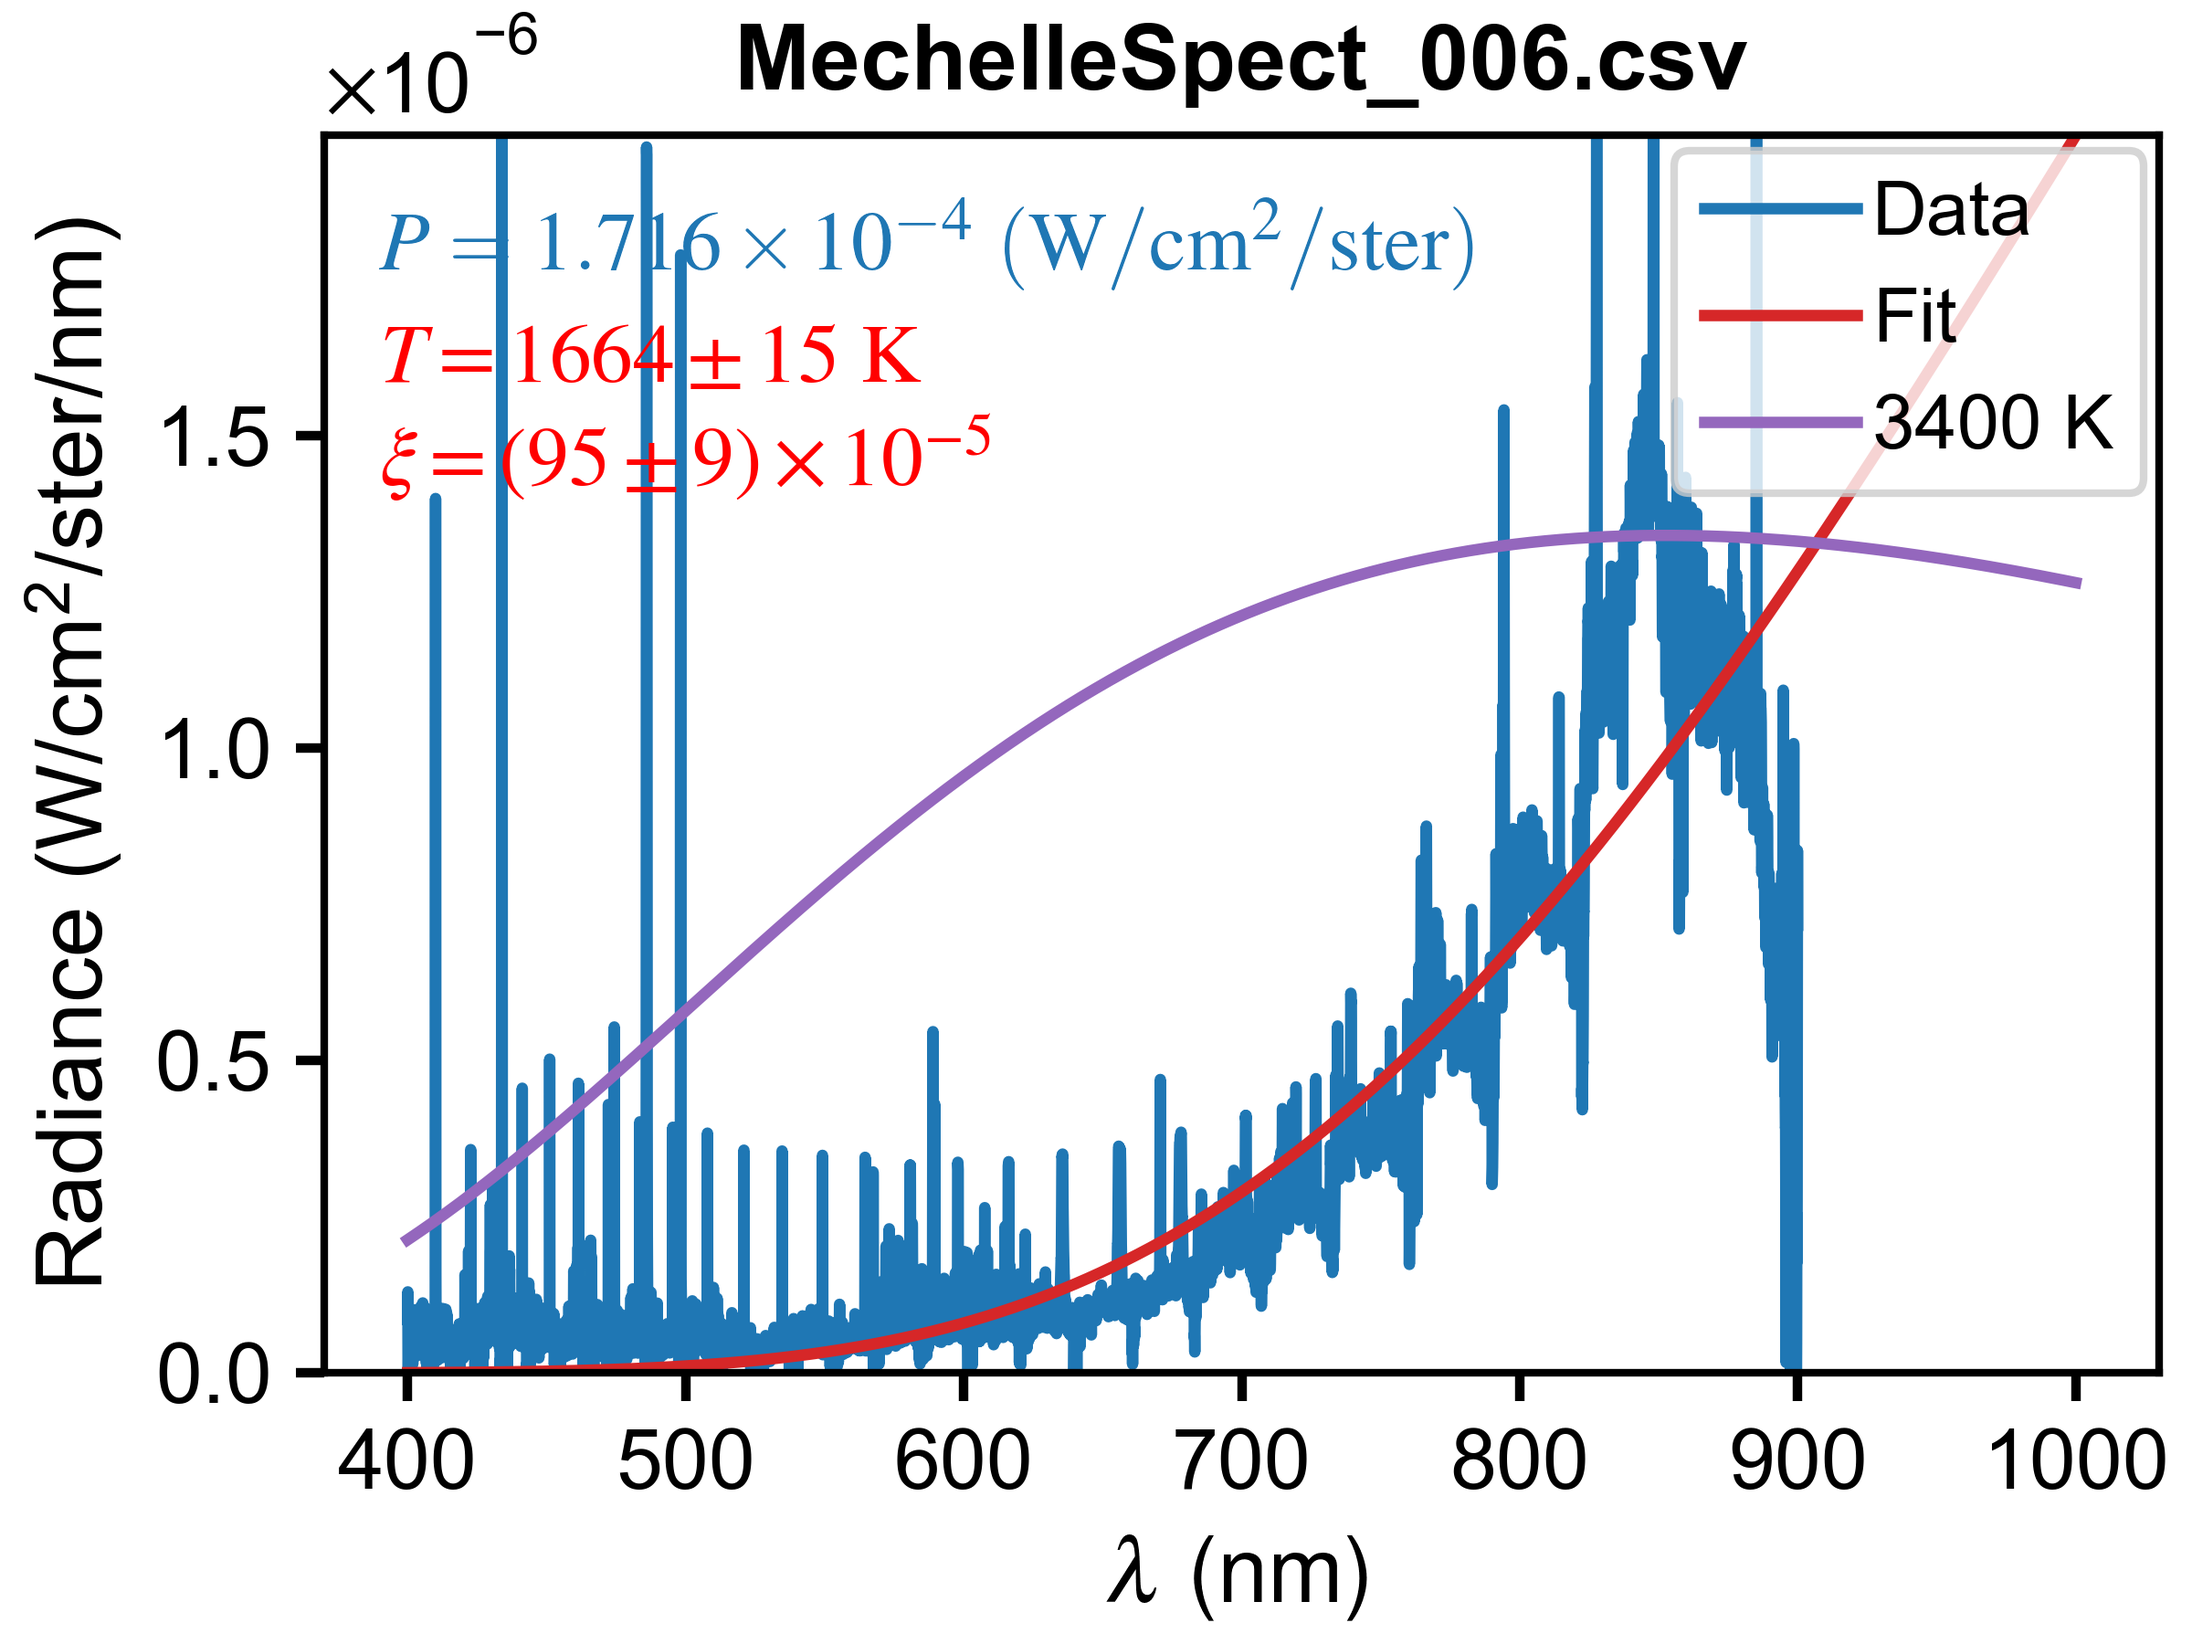
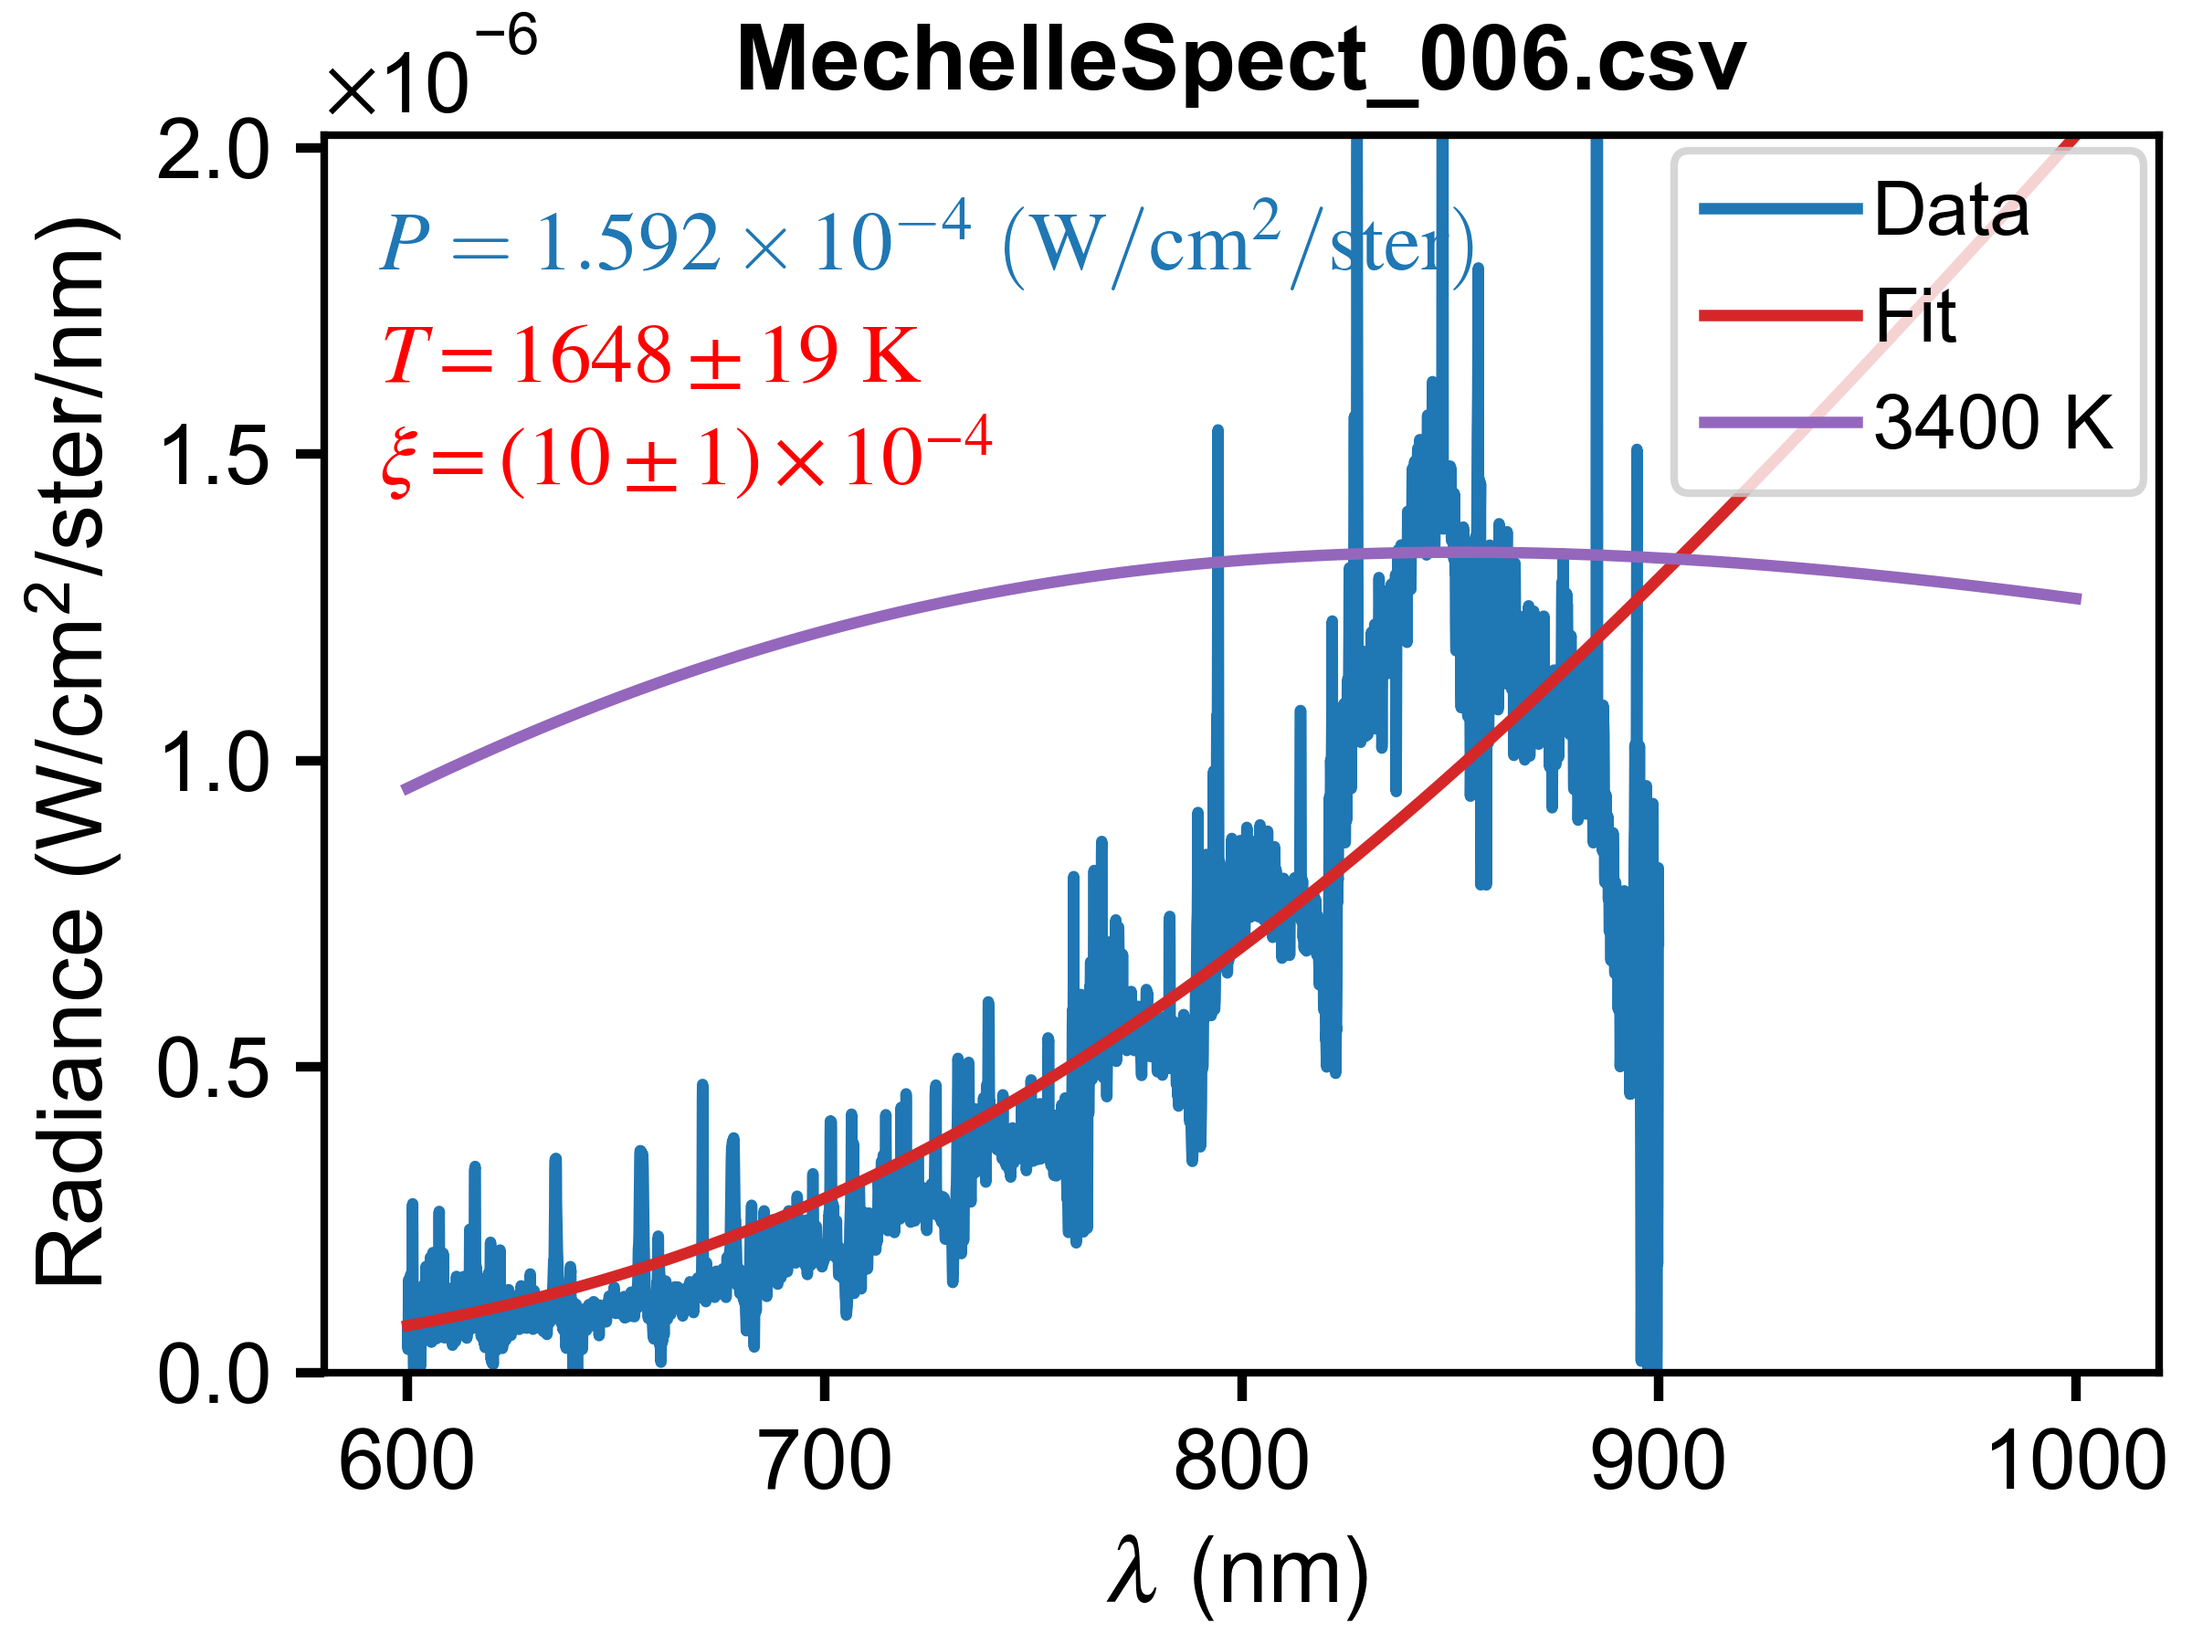
baseline_scaling

diff --git a/data_processing/2024/OES/fit_black_body.py b/data_processing/2024/OES/fit_black_body.py
@@ -12,8 +12,38 @@ from scipy.integrate import simpson
 from data_processing.utils import lighten_color, latex_float_with_error, latex_float
 from scipy.signal import savgol_filter
 from data_processing.echelle import load_echelle_file
+import re
 
 echelle_spectrum = r'./data/brightness_data_fitspy/echelle_20241031/MechelleSpect_006.csv'
+baseline_fit_csv = r'./data/baseline_echelle_20240815_MechelleSpect_007.csv'
+
+lookup_lines = [
+    {'center_wl': 410.06, 'label': r'D$_{\delta}$'},
+    {'center_wl': 433.93, 'label': r'D$_{\gamma}$'},
+    {'center_wl': 486.00, 'label': r'D$_{\beta}$'},
+    {'center_wl': 656.10, 'label': r'D$_{\alpha}$'}
+]
+
+calibration_wl = lookup_lines[1]
+
+def model_poly(x, b) -> np.ndarray:
+    n = len(b)
+    r = np.zeros(len(x))
+    for i in range(n):
+        r += b[i] * x ** i
+    return r
+
+
+def res_poly(b, x, y, w=1.):
+    return (model_poly(x, b) - y) * w
+
+
+def jac_poly(b, x, y, w=1):
+    n = len(b)
+    r = np.zeros((len(x), n))
+    for i in range(n):
+        r[:, i] = w * x ** i
+    return r
 
 def load_plot_style():
     with open('../plot_style.json', 'r') as file:
@@ -42,18 +72,44 @@ def res_bb(b, x, y):
     return model_bb(wavelength_nm=x, b=b) - y
 
 
+
+
+
 def main():
-    global echelle_spectrum
+    global echelle_spectrum, baseline_fit_csv
     # spectrum_df, params = load_echelle_file('./data/Echelle_data/echelle_20241031/MechelleSpect_012.asc')
     spectrum_df = pd.read_csv(
         echelle_spectrum, comment='#',
     ).apply(pd.to_numeric)
-    spectrum_df = spectrum_df[spectrum_df['Wavelength (nm)']>=400.]
+    spectrum_df = spectrum_df[spectrum_df['Wavelength (nm)']>=600.]
     brightness = spectrum_df['Brightness (photons/cm^2/s/nm)'].values
+
+    baseline_df = pd.read_csv(baseline_fit_csv, comment='#').apply(pd.to_numeric)
+    # Get the coefficients of the polynomial fit to the continuum
+    # Also get the intensity of the calibration wavelength (D_gamma) from the spectrum used to get the continuum
+    # baseline.
+    #
+    # D_gamma: 433.933 -/+ 0.0000 nm, Intensity: 3.308E+01 (photons/cm^2/s/nm)
+    p = re.compile(r"\#\s+D\_gamma\:\s+(\d+\.\d*)\s+.*Intensity\:\s+(\d+\.?\d*[eE][\-\+]\d+).*")
+    reference_wl = 433.93 # nm
+    reference_intenstiy = 3.3E1 # photons/cm^2/s
+    with open(baseline_fit_csv, 'r') as f:
+        for line in f:
+            m = p.match(line)
+            if m:
+                reference_wl = float(m.group(1))
+                reference_intenstiy = float(m.group(2))
+                break
+    print(f"Reference wl:\t{reference_wl:.3f} nm")
+    print(f"Reference intensity:\t{reference_intenstiy:.3E} (photons/cm^2/s/nm)")
+    print(baseline_df)
+    popt =np.array([xi for xi in baseline_df.iloc[0]])
 
 
     wl = spectrum_df['Wavelength (nm)'].values
     radiance = brightness * 1240. / wl * 1.6019E-19 / 4. / np.pi
+    baseline = model_bb(wl, popt)
+    radiance -= baseline
     # wl = spectrum_df['wl (nm)'].values
     # radiance = spectrum_df['counts'].values
 

diff --git a/data_processing/2024/OES/fit_continuum_20240815.py b/data_processing/2024/OES/fit_continuum_20240815.py
@@ -117,9 +117,9 @@ def main():
     brightness = spectrum_df['Brightness (photons/cm^2/s/nm)'].values * 1E-12
     n = len(brightness)
     # find the Dalpha peak
-    da_wl = 656.10
+    dg_wl = 433.93
     wl_del = 0.2
-    msk_da = ((da_wl - wl_del) <= wl) & (wl <= (da_wl + wl_del))
+    msk_da = ((dg_wl - wl_del) <= wl) & (wl <= (dg_wl + wl_del))
     wl_win = wl[msk_da]
     y_win = brightness[msk_da]
     y_peak = y_win.max()
@@ -127,7 +127,7 @@ def main():
     wl_peak = wl_win[idx_peak]
 
     wl_del = 0.75
-    msk_da = ((da_wl - wl_del) <= wl) & (wl <= (da_wl + wl_del))
+    msk_da = ((dg_wl - wl_del) <= wl) & (wl <= (dg_wl + wl_del))
     wl_win = wl[msk_da]
     y_win = brightness[msk_da]
     area_window = simpson(y=y_win, x=wl_win)
@@ -199,7 +199,7 @@ def main():
     base_folder = os.path.basename(os.path.dirname(spectrum_csv))
     ax1.set_title(f"{base_folder} - {base_filename}")
 
-    msk_da_plot = ((da_wl - 3.) <= wl) & (wl <= (da_wl + 3.))
+    msk_da_plot = ((dg_wl - 3.) <= wl) & (wl <= (dg_wl + 3.))
     print(brightness[msk_da_plot])
     ax2.plot(wl[msk_da_plot], brightness[msk_da_plot], ms=6, marker='o', mec='C0', mfc='none', label='data', ls='none')
     ax2.plot(x_pred_da, y_pred_da, color='tab:red', label='Fit')
@@ -231,8 +231,11 @@ def main():
         0.05, 0.95, eq_txt, transform=ax1.transAxes,
         ha='left', va='top', fontsize=11, color='tab:red', usetex=True
     )
+    with open(os.path.join('./data', f'baseline_{base_folder}_{base_filename}.csv'), 'w') as f:
+        intensity_da = sum_gaussians([popt_da[2]], popt_da)
+        f.write(f"# D_gamma: {popt_da[2]:.3f} -/+ {delta_da[2]:.4f} nm, Intensity: {intensity_da[0]:.3E} (photons/cm^2/s/nm)\n")
+        baseline_df.to_csv(f, index=False)
 
-    baseline_df.to_csv(os.path.join('./data', f'baseline_{base_folder}_{base_filename}.csv'), index=False)
     fig.savefig(os.path.join('./figures', f'baseline_{base_folder}_{base_filename}.png'), dpi=600)
     plt.show()
 
